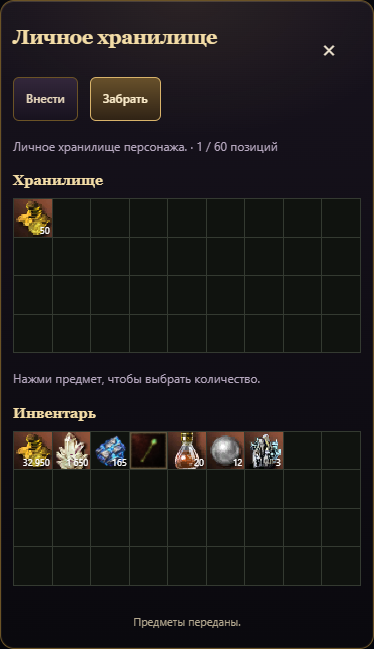
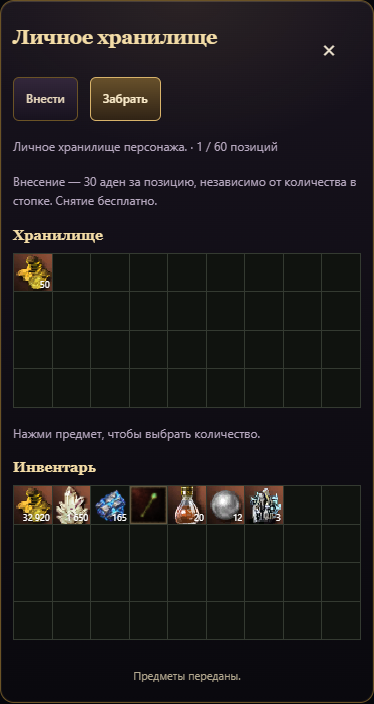
Charge L2 warehouse deposit fee per item stack

diff --git a/miniapp/warehouse.js b/miniapp/warehouse.js
@@ -3,13 +3,14 @@ import Chat from '../db/models/Chat.js';
 import Clan from '../db/models/Clan.js';
 import {goldLockForMember,GOLD_LOCK_REASON} from '../functions/game/general/goldLock.js';
 import {canDepositClan,canWithdrawClan,coLeaders} from '../functions/game/clans/warehouseAccess.js';
-import {stockRows,storageSlots,STORAGE_SLOTS,transferStock,intoInventory} from './itemTransfer.js';
+import {stockRows,storageSlots,STORAGE_SLOTS,validateStock,transferStock,intoInventory} from './itemTransfer.js';
 import {warehouseCapacity,inventoryCapacity,inventorySlotsUsed} from '../functions/game/builds/palaceCapacity.js';
+export const WAREHOUSE_DEPOSIT_FEE = 30;
 export function warehouseDto(player,clan=null,scope='character'){
  const store=scope==='clan'?clan?.warehouse:player?.game?.warehouse;
  const inventory=player.game?.inventory||{};
  const rows=stockRows(inventory).filter(row=>scope!=='clan'||row.kind!=='equipment'||!hasAugment(inventory.equipment.items.find(i=>i.uid===row.ref)));
- return {scope,title:scope==='clan'?'Хранилище клана':'Личное хранилище',canDeposit:scope!=='clan'||canDepositClan(clan,player.userId),canWithdraw:scope!=='clan'||canWithdrawClan(clan,player.userId),maxSlots:scope==='clan'?STORAGE_SLOTS:warehouseCapacity(player),slots:storageSlots(store||{}),inventorySlots:{used:inventorySlotsUsed(inventory),capacity:inventoryCapacity(player)},stored:stockRows(store||{}),inventory:rows,coLeaders:coLeaders(clan).map(m=>String(m.userId)),history:scope==='clan'?(clan?.warehouse?.history||[]).slice(-20).reverse():[]};
+ return {scope,depositFee:WAREHOUSE_DEPOSIT_FEE,gold:inventory.gold||0,title:scope==='clan'?'Хранилище клана':'Личное хранилище',canDeposit:scope!=='clan'||canDepositClan(clan,player.userId),canWithdraw:scope!=='clan'||canWithdrawClan(clan,player.userId),maxSlots:scope==='clan'?STORAGE_SLOTS:warehouseCapacity(player),slots:storageSlots(store||{}),inventorySlots:{used:inventorySlotsUsed(inventory),capacity:inventoryCapacity(player)},stored:stockRows(store||{}),inventory:rows,coLeaders:coLeaders(clan).map(m=>String(m.userId)),history:scope==='clan'?(clan?.warehouse?.history||[]).slice(-20).reverse():[]};
 }
 const hasAugment=item=>Boolean(item?.augment||item?.augmentation);
 export function moveWarehouse(player,clan,body,now=Date.now()){
@@ -22,9 +23,19 @@ export function moveWarehouse(player,clan,body,now=Date.now()){
  const count=Number(body.count);
  if(!['number','string'].includes(typeof body.count))return {ok:false,reason:'invalid_count'};
  if(typeof body.count==='string'&&!/^\d+$/.test(body.count.trim()))return {ok:false,reason:'invalid_count'};
+ const checked=validateStock(direction==='deposit'?inventory:store,{kind:body.kind,ref:String(body.ref||''),count});
+ if(!checked.ok)return checked;
+ const fee=direction==='deposit'?WAREHOUSE_DEPOSIT_FEE:0;
+ if(fee){
+  const gold=inventory.gold??0;
+  const depositedGold=body.kind==='currency'&&body.ref==='gold'?count:0;
+  if(!Number.isSafeInteger(gold)||gold-depositedGold<fee)return {ok:false,reason:'not_enough_adena'};
+ }
  const depositLimit=scope==='clan'?STORAGE_SLOTS:warehouseCapacity(player);
  const result=transferStock(direction==='deposit'?inventory:store,direction==='deposit'?store:inventory,{kind:body.kind,ref:String(body.ref||''),count},direction==='deposit'?{limit:depositLimit}:intoInventory(inventoryCapacity(player)));
  if(result.ok){
+  if(fee)inventory.gold-=fee;
+  result.fee=fee;
   if(scope==='clan'){
    clan.warehouse=store;store.history=[...(store.history||[]),{userId:String(player.userId),direction,title:result.title,count,at:now}].slice(-100);
   }else player.game.warehouse=store;
@@ -43,7 +54,7 @@ export async function transferWarehouse(chatId,userId,body){
   const chat=await Chat.findOne({chatId}).session(session),player=chat?.members.find(m=>String(m.userId)===String(userId));
   if(!player)return {ok:false,reason:'unknown_player'};
   const clan=body.scope==='clan'?await Clan.findOne({'members.userId':userId}).session(session):null;
-  if(body.kind==='currency'&&body.ref==='gold'&&goldLockForMember(player,chat))return {ok:false,reason:GOLD_LOCK_REASON};
+  if((body.direction==='deposit'||body.kind==='currency'&&body.ref==='gold')&&goldLockForMember(player,chat))return {ok:false,reason:GOLD_LOCK_REASON};
   const result=moveWarehouse(player,clan,body);
   if(result.ok){await chat.save({session});if(clan)await clan.save({session});}
   return result;

diff --git a/webapp/warehouse.js b/webapp/warehouse.js
@@ -9,7 +9,10 @@ export async function openWarehouseGame({api,renderState,haptic,scope='character
  const close=()=>{overlay.remove();onClose?.();};overlay.querySelector('.overlay-close').onclick=close;overlay.querySelector('.overlay-backdrop').onclick=close;
  async function transfer(row){
   if(pending)return;
-  const count=await stockQuantity({row,action:direction==='deposit'?'Внести':'Забрать',owner:overlay});
+  const fee=direction==='deposit'?state.depositFee:0;
+  const max=fee&&row.kind==='currency'&&row.ref==='gold'?Math.max(0,row.count-fee):row.count;
+  if(fee&&(state.gold<fee||max<1)){feedback.textContent='Не хватает адены на внесение: 30 аден за позицию.';return;}
+  const count=await stockQuantity({row,action:direction==='deposit'?'Внести':'Забрать',owner:overlay,max,note:fee?`Плата за внесение: ${fee} аден. Количество в стопке не влияет на плату.`:'Снятие из хранилища бесплатно.'});
   if(count===null||!overlay.isConnected)return;
   pending=true;
   try{
@@ -22,7 +25,7 @@ export async function openWarehouseGame({api,renderState,haptic,scope='character
   if(!state){body.innerHTML='<p>Хранилище недоступно.</p>';return;}
   overlay.querySelector('h2').textContent=state.title;
   const source=direction==='deposit'?state.inventory:state.stored,target=direction==='deposit'?state.stored:state.inventory,row=source[selected],allowed=direction==='deposit'?state.canDeposit:state.canWithdraw;
-  body.innerHTML=`<nav class="storage-tabs"><button type="button" data-direction="deposit" aria-pressed="${direction==='deposit'}">Внести</button><button type="button" data-direction="withdraw" aria-pressed="${direction==='withdraw'}">Забрать</button></nav><p class="storage-note">${scope==='clan'?'Все участники могут внести. Глава и два со-лидера могут забрать.':'Личное хранилище персонажа.'} · ${state.slots} / ${state.maxSlots} позиций</p>
+  body.innerHTML=`<nav class="storage-tabs"><button type="button" data-direction="deposit" aria-pressed="${direction==='deposit'}">Внести</button><button type="button" data-direction="withdraw" aria-pressed="${direction==='withdraw'}">Забрать</button></nav><p class="storage-note">${scope==='clan'?'Все участники могут внести. Глава и два со-лидера могут забрать.':'Личное хранилище персонажа.'} · ${state.slots} / ${state.maxSlots} позиций</p><p class="storage-note">Внесение — ${state.depositFee} аден за позицию, независимо от количества в стопке. Снятие бесплатно.</p>
    <section class="stock-section"><h3>${direction==='deposit'?'Инвентарь':'Хранилище'}</h3>${stockGrid(source,{select:allowed,selected})}</section>
    <p class="storage-note">Нажми предмет, чтобы выбрать количество.${scope==='clan'?' Аугментированные вещи внести нельзя.':''}</p>
    ${!allowed?'<p class="storage-note">У тебя нет прав на снятие предметов.</p>':''}

diff --git a/webapp/stock-grid.js b/webapp/stock-grid.js
@@ -9,4 +9,4 @@ export function stockGrid(rows,{select=false,selected=-1,min=30}={}){
 }
 // Gold committed to a table game cannot be moved by either trade participant.
 const GOLD_LOCK_TEXT='Адена занята в игре со ставкой. Заверши партию перед передачей.';
-export const TRANSFER_REASONS={in_table_game:GOLD_LOCK_TEXT,augmented_item:'Аугментированные вещи нельзя хранить в клановом хранилище.',warehouse_forbidden:'Забрать предметы могут только глава и два со-лидера.',warehouse_full:'Хранилище заполнено.',item_unavailable:'Предмет недоступен. Сними снаряжение; временные и привязанные предметы нельзя передать.',not_enough:'Предметов больше не хватает.',invalid_count:'Введи целое количество, которое у тебя есть.',duplicate_item:'Этот предмет уже выбран.',trade_busy:'Один из игроков уже участвует в обмене.',trade_closed:'Обмен завершён, отменён или истёк.',trade_changed:'Предложение изменилось. Проверь оба списка и подтверди заново.',trade_items_changed:'Предметы или их улучшения изменились. Обнови предложение.',trade_empty:'Добавь предметы или адену в обмен.',trade_too_many:'В обмене максимум 12 позиций.',unknown_player:'Игрок не найден в этом чате.'};
+export const TRANSFER_REASONS={not_enough_adena:'Не хватает адены на плату за внесение.',in_table_game:GOLD_LOCK_TEXT,augmented_item:'Аугментированные вещи нельзя хранить в клановом хранилище.',warehouse_forbidden:'Забрать предметы могут только глава и два со-лидера.',warehouse_full:'Хранилище заполнено.',item_unavailable:'Предмет недоступен. Сними снаряжение; временные и привязанные предметы нельзя передать.',not_enough:'Предметов больше не хватает.',invalid_count:'Введи целое количество, которое у тебя есть.',duplicate_item:'Этот предмет уже выбран.',trade_busy:'Один из игроков уже участвует в обмене.',trade_closed:'Обмен завершён, отменён или истёк.',trade_changed:'Предложение изменилось. Проверь оба списка и подтверди заново.',trade_items_changed:'Предметы или их улучшения изменились. Обнови предложение.',trade_empty:'Добавь предметы или адену в обмен.',trade_too_many:'В обмене максимум 12 позиций.',unknown_player:'Игрок не найден в этом чате.'};

diff --git a/test/warehouse-trade.test.js b/test/warehouse-trade.test.js
@@ -98,3 +98,47 @@ test('cancelled and expired trades never move possessions; busy players cannot o
  assert.equal(act(chat,t,2,'cancel').ok,true);
  assert.equal(act(chat,t,1,'confirm').reason,'trade_closed');
 });
+
+for(const scope of ['character','clan']) {
+ test(scope+' warehouse charges 30 adena per deposited stack and nothing for withdrawal',()=>{
+  const p=player(1),clan={owner:1,members:[{userId:1,role:'owner'}],warehouse:{}};
+  const dto=warehouseDto(p,clan,scope);assert.equal(dto.depositFee,30);assert.equal(dto.gold,100);
+  for(const count of [1,9]) {
+   const result=moveWarehouse(p,clan,{scope,direction:'deposit',...request('material','iron',count)});
+   assert.equal(result.ok,true);assert.equal(result.fee,30);
+  }
+  assert.equal(p.game.inventory.gold,40);
+  assert.equal(moveWarehouse(p,clan,{scope,direction:'withdraw',...request('material','iron',10)}).fee,0);
+  assert.equal(p.game.inventory.gold,40);assert.equal(p.game.inventory.materials.iron,10);
+ });
+ test(scope+' warehouse requires deposit plus fee for adena and never mutates on failure',()=>{
+  const p=player(1),clan={owner:1,members:[{userId:1,role:'owner'}],warehouse:{}};
+  const before=structuredClone([p,clan]);
+  assert.equal(moveWarehouse(p,clan,{scope,direction:'deposit',...request('currency','gold',71)}).reason,'not_enough_adena');
+  assert.deepEqual([p,clan],before);
+  assert.equal(moveWarehouse(p,clan,{scope,direction:'deposit',...request('currency','gold',70)}).ok,true);
+  assert.equal(p.game.inventory.gold,0);
+  const after=structuredClone([p,clan]);
+  assert.equal(moveWarehouse(p,clan,{scope,direction:'deposit',...request('material','iron')}).reason,'not_enough_adena');
+  assert.deepEqual([p,clan],after);
+  assert.equal(moveWarehouse(p,clan,{scope,direction:'withdraw',...request('currency','gold',70)}).ok,true);
+  assert.equal(p.game.inventory.gold,70);
+ });
+}
+test('warehouse does not charge for rejected counts, duplicates, or overflowing destinations',()=>{
+ for(const body of [request('material','iron',0),request('material','iron',11),request('equipment','blade'),request('currency','gold')]) {
+  const p=player(1);p.game.inventory.equipment.items.push(item());
+  p.game.warehouse={gold:Number.MAX_SAFE_INTEGER,equipment:{items:[item()]}};
+  const before=structuredClone(p);
+  assert.equal(moveWarehouse(p,null,{direction:'deposit',...body}).ok,false);
+  assert.deepEqual(p,before);
+ }
+});
+
+test('full warehouse does not charge a deposit fee',()=>{
+ const p=player(1);
+ p.game.warehouse={materials:Object.fromEntries(Array.from({length:warehouseDto(p).maxSlots},(_,i)=>['craft_gem_D_'+i,1]))};
+ const before=structuredClone(p);
+ assert.equal(moveWarehouse(p,null,{direction:'deposit',...request('material','iron')}).reason,'warehouse_full');
+ assert.deepEqual(p,before);
+});

diff --git a/webapp/stock-quantity.js b/webapp/stock-quantity.js
@@ -1,11 +1,11 @@
 import {escapeHtml} from './escape-html.js';
 import {stockArt} from './stock-grid.js';
 
-export function stockQuantity({row,action,owner,max=row.count}){
+export function stockQuantity({row,action,owner,max=row.count,note=''}){
  if(document.querySelector('.stock-quantity'))return Promise.resolve(null);
  return new Promise(resolve=>{
   const dialog=document.createElement('dialog');dialog.className='stock-quantity storage-panel';
-  dialog.innerHTML=`<form class="stock-transfer"><h2>${escapeHtml(action)}</h2><div class="quantity-item">${stockArt(row)}<strong>${escapeHtml(row.title)}</strong></div>${row.stats?.length?`<p class="storage-note">${escapeHtml(row.stats.join(' · '))}</p>`:''}<label>Количество · доступно ${max}<input name="count" type="number" inputmode="numeric" min="1" max="${max}" value="1" placeholder="Количество" required autofocus></label><div class="storage-actions"><button type="submit">${escapeHtml(action)}</button><button type="button" data-quantity-cancel>Отмена</button></div></form>`;
+  dialog.innerHTML=`<form class="stock-transfer"><h2>${escapeHtml(action)}</h2><div class="quantity-item">${stockArt(row)}<strong>${escapeHtml(row.title)}</strong></div>${note?`<p class="storage-note" data-quantity-note>${escapeHtml(note)}</p>`:''}${row.stats?.length?`<p class="storage-note">${escapeHtml(row.stats.join(' · '))}</p>`:''}<label>Количество · доступно ${max}<input name="count" type="number" inputmode="numeric" min="1" max="${max}" value="1" placeholder="Количество" required autofocus></label><div class="storage-actions"><button type="submit">${escapeHtml(action)}</button><button type="button" data-quantity-cancel>Отмена</button></div></form>`;
   let done=false;
   const finish=value=>{if(done)return;done=true;observer.disconnect();dialog.close();dialog.remove();resolve(value);};
   const observer=new MutationObserver(()=>{if(!owner.isConnected)finish(null);});

diff --git a/webapp/i18n/uz-extra.js b/webapp/i18n/uz-extra.js
@@ -1059,4 +1059,12 @@ export default {
   "Этаж": "Qavat",
   "Этаж ниже": "Pastki qavat",
   "Этаж выше": "Yuqori qavat",
+  "Внесение — {5} аден за позицию, независимо от количества в стопке. Снятие бесплатно.": "Saqlashga topshirish — to‘plamdagi sonidan qat’i nazar, har bir pozitsiya uchun {5} adena. Olish bepul.",
+  "Количество · доступно {5}": "Miqdor · mavjud {5}",
+  "Нажми предмет, чтобы выбрать количество.{8}": "Miqdorni tanlash uchun buyumni bosing.{8}",
+  "Не хватает адены на внесение: 30 аден за позицию.": "Topshirish uchun adena yetarli emas: har bir pozitsiya uchun 30 adena.",
+  "Не хватает адены на плату за внесение.": "Topshirish haqini to‘lash uchun adena yetarli emas.",
+  "Плата за внесение: {0} аден. Количество в стопке не влияет на плату.": "Topshirish haqi: {0} adena. To‘plamdagi miqdor haq miqdoriga ta’sir qilmaydi.",
+  "Снятие из хранилища бесплатно.": "Ombordan olish bepul.",
+  "Товары": "Mahsulotlar",
 };
